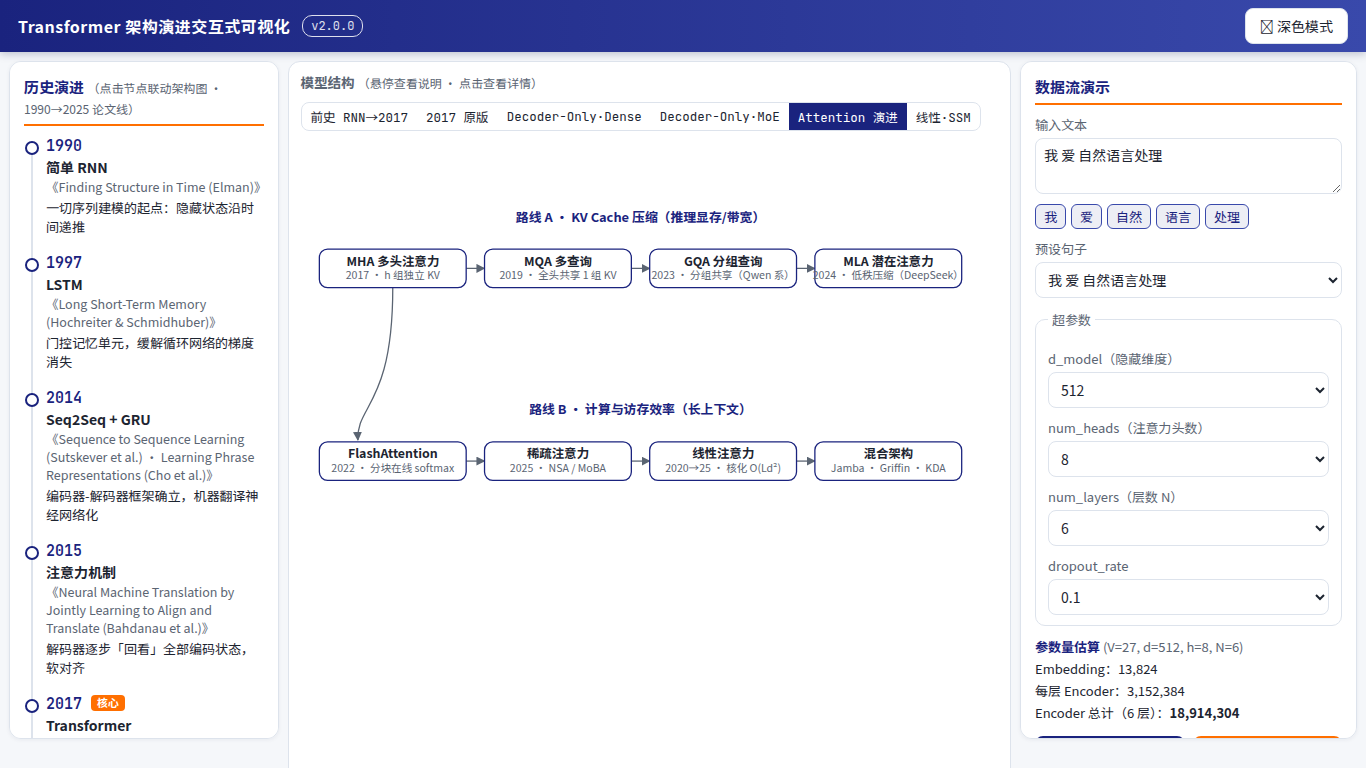
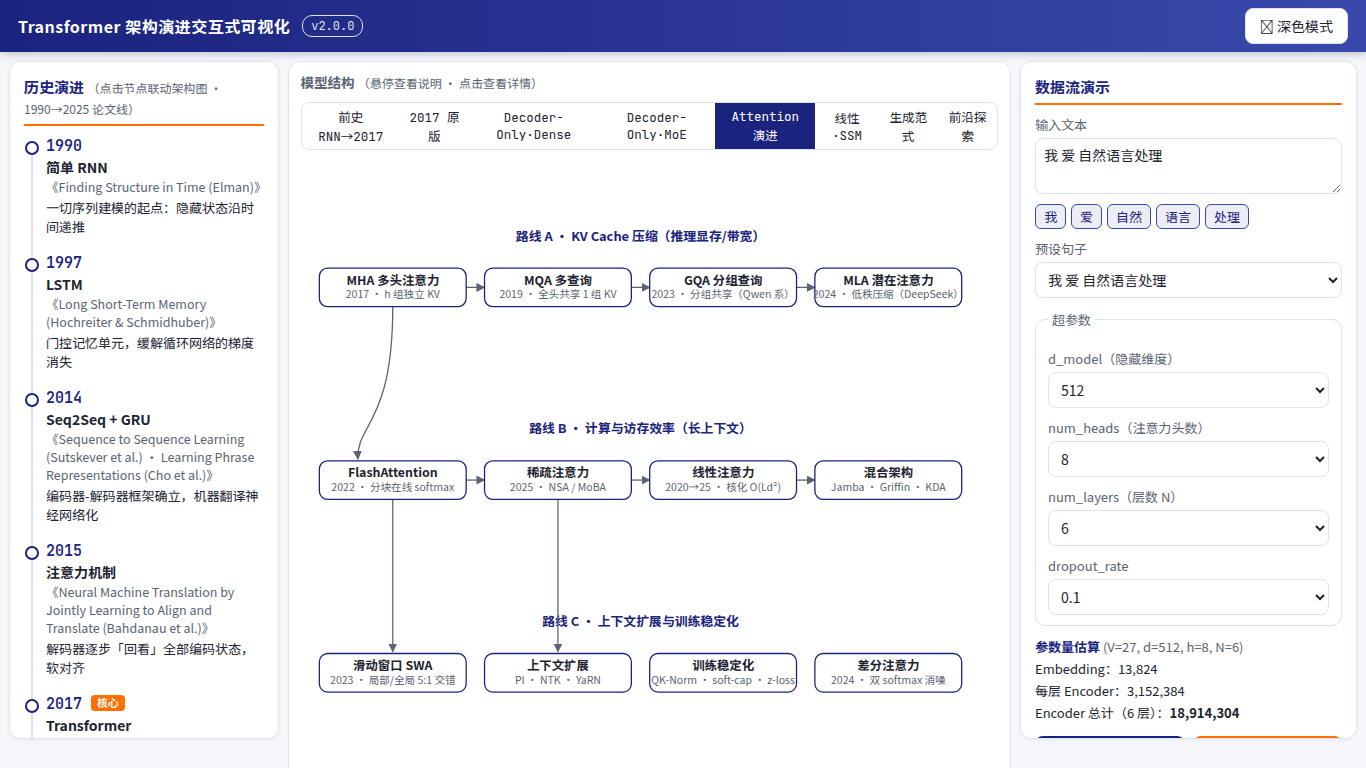
feat(frontier): 生成范式与前沿探索视图（扩散LM/MTP/投机解码/BLT/记忆层/TTT·Titans/潜推理/多模态）+ Attention 路线C + 时间轴 33 节点

diff --git a/index.html b/index.html
@@ -323,8 +323,10 @@ html[data-theme="dark"] .chip{background:rgba(140,158,255,.12);color:var(--c-pri
           <button data-view="orig" class="on" title="2017 原版 Encoder-Decoder">2017 原版</button>
           <button data-view="dense" title="GPT → LLaMA → Qwen-Dense：现代 Decoder-Only Dense">Decoder-Only·Dense</button>
           <button data-view="moe" title="Switch → Mixtral → DeepSeek-V3 → Qwen3 → Kimi K2">Decoder-Only·MoE</button>
-          <button data-view="attn" title="MHA→MQA→GQA→MLA；FlashAttention→NSA/MoBA→线性→混合">Attention 演进</button>
+          <button data-view="attn" title="MHA→MQA→GQA→MLA；Flash→NSA/MoBA→线性→混合；SWA/YaRN/QK-Norm">Attention 演进</button>
           <button data-view="ssm" title="线性注意力与状态空间：Linear Transformer→RWKV/xLSTM→S4→Mamba→Kimi Linear">线性·SSM</button>
+          <button data-view="gen" title="自回归 vs MTP vs 扩散 LM vs 投机解码">生成范式</button>
+          <button data-view="frontier" title="BLT 字节级 / 记忆层 / TTT·Titans / 深度循环 / 多模态">前沿探索</button>
         </span>
         <button id="moe-demo" class="btn" style="display:none;">🎲 Top-2 路由演示</button>
       </div>
@@ -1321,7 +1323,8 @@ const MODULE_DETAILS = {
     code: "// MoBA：块级门控选 Top-K 块\nconst blockScores = qBlock.matMul(kBlocks.T);\nconst topK = tf.topk(blockScores, k);  // 其余块不计算",
     params: '0~少量门控参数',
     refs: ['DeepSeek-AI 2025 · Native Sparse Attention (NSA)',
-           'Moonshot AI 2025 · MoBA: Mixture of Block Attention for Long-Context LLMs']
+           'Moonshot AI 2025 · MoBA: Mixture of Block Attention for Long-Context LLMs',
+           'DeepSeek-AI 2025 · V3.2-Exp（DSA 稀疏注意力，NSA 工程化）']
   },
   'hybrid': {
     title: '混合架构（少数全注意力 + 多数线性层）',
@@ -1436,6 +1439,183 @@ const MODULE_DETAILS = {
     code: "y = g1*E1(x) + g2*E2(x);  // 其余 E-2 个专家跳过",
     params: '0',
     refs: ['Fedus et al. 2022 · A Review of Sparse Expert Models in Deep Learning']
+  },
+
+  /* ============ Attention 路线 C：长上下文与稳定化 ============ */
+  'swa': {
+    title: '滑动窗口注意力（SWA）与局部/全局交错',
+    desc: '每个位置只看最近 w 个 token：L×L → L×w，推理 Cache 恒为窗口大小。Mistral 首创；Gemma 2/3 用「局部层:全局层 ≈ 5:1」交错——局部层管邻近细节、稀疏的全局层管长程检索。首 token 吸引力现象由 attention sinks（StreamingLLM）解释并利用。',
+    latex: [
+      'A_{ij}=\\text{softmax}\\!\\left(\\frac{q_i k_j^{\\top}}{\\sqrt{d}}\\right),\\quad j\\in(i-w,\\,i]',
+      '\\text{Cache}: O(L)\\rightarrow O(w),\\quad \\text{层配比 局部:全局}=5{:}1\\ \\text{(Gemma 3)}'
+    ],
+    shapes: ['注意力矩阵 [L,L] → 带状 [L,w]','KV Cache 恒定 w'],
+    code: "const start = Math.max(0, t - W);\nconst s = q[t].matMul(K.slice([start, t-start+W]), false, true);\n// 仅窗口内 softmax，窗口外不计算",
+    params: '0',
+    refs: ['Jiang et al. 2023 · Mistral 7B', 'Riviere et al. 2024 · Gemma 2',
+           'Google 2025 · Gemma 3 Technical Report',
+           'Xiao et al. 2023 · Efficient Streaming Language Models (Attention Sinks)']
+  },
+  'ctx-ext': {
+    title: '上下文扩展：PI → NTK-aware → YaRN',
+    desc: 'RoPE 模型把 4K 训练长度扩到百万级推理的三代方案：PI 线性插值（位置 ÷s）简单有效但高频信息受损；NTK-aware 高频外推、低频内插；YaRN 按波长分频插值 + 注意力温度补偿，10 倍扩展仅需 ~1000 步微调。CodeLlama-100K、Qwen-1M 的底层技术。',
+    latex: [
+      '\\text{PI}: \\theta_m\\rightarrow\\theta_m/s;\\quad \\text{YaRN}: \\text{按波长 } r(\\theta) \\text{ 分频插值} + \\sqrt{1/t}\\ \\text{温度}'
+    ],
+    shapes: ['有效上下文 ×10~250（4K→1M）','微调成本 ~1000 步'],
+    code: "// YaRN：对第 i 个频率按波长混合插值\nconst r = 2*Math.PI/theta[i];          // 波长\nconst scale = r < base ? 1 : Math.max(0, (r-base)/(L_train-base)) * (1-1/s) + 1/s;",
+    params: '0',
+    refs: ['Chen et al. 2023 · Extending Context Window via Position Interpolation',
+           'bloc97 2023 · NTK-Aware Scaled RoPE', 'Peng et al. 2024 · YaRN']
+  },
+  'qknorm': {
+    title: '训练稳定化三件套：QK-Norm · soft-capping · z-loss',
+    desc: '规模越大越容易训崩的主流对策：QK-Norm 对 Q/K 按头做 RMSNorm，防注意力 logits 爆炸（Gemma 3、Chameleon）；logit soft-capping 用 tanh 限幅防输出过自信（Gemma 2）；z-loss 惩罚 softmax 分母漂移（ST-MoE/PaLM）。与 Pre-Norm/RMSNorm 同属「稳定化演进线」。',
+    latex: [
+      '\\hat{q}=\\text{RMSNorm}(q)\\cdot\\sqrt{d_h};\\quad \\hat{\\ell}=c\\cdot\\tanh(\\ell/c)\\ \\text{(soft-cap)}',
+      '\\mathcal{L}_z=\\frac{1}{B}\\sum_b\\big(\\log Z_b\\big)^2\\ \\text{(z-loss)}'
+    ],
+    shapes: ['注意力 logits 方差受控','训练 loss 曲线平滑'],
+    code: "const qn = rmsNorm(Q).mul(Math.sqrt(dh));\nconst kn = rmsNorm(K).mul(Math.sqrt(dh));\nconst logits = softCap(qn.matMul(kn.T), 30); // c=30 tanh 限幅",
+    params: 'QK-Norm：4·dₕ/头',
+    refs: ['Riviere et al. 2024 · Gemma 2', 'Google 2025 · Gemma 3',
+           'Chameleon Team 2024 · Chameleon Mixed-Modal Early-Fusion',
+           'Zoph et al. 2022 · ST-MoE (z-loss)']
+  },
+  'diff': {
+    title: '差分注意力（DIFF Transformer, 2024）',
+    desc: '仿差分放大器：两组独立 softmax 注意力相减，共模噪声（无关 token 的均匀注意力）被抵消——抗幻觉、长上下文鲁棒、还能省一半头数（每组 h/2 头）。65B 规模验证优于同尺寸 Transformer。',
+    latex: [
+      '\\text{DiffAttn}(Q)=\\big(\\text{softmax}(Q_1K_1^{\\top})V_1-\\lambda\\,\\text{softmax}(Q_2K_2^{\\top})V_2\\big),\\ \\lambda\\in(0,1)'
+    ],
+    shapes: ['每组 h/2 头 ×2 组','输出同 MHA 形状'],
+    code: "const A1 = softmax(Q1.matMul(K1.T)); const A2 = softmax(Q2.matMul(K2.T));\nreturn A1.sub(A2.mul(lambda)).matMul(V);",
+    params: '~同 MHA（两组半宽投影）',
+    refs: ['Ye et al. 2024 · Differential Transformer']
+  },
+
+  /* ============ 生成范式 ============ */
+  'autoreg': {
+    title: '自回归下一词预测（NTP）',
+    desc: 'LLM 的第一性原理：因果掩码 + 交叉熵，逐 token 左到右。GPT 系（GPT/Qwen/LLaMA/Kimi/DeepSeek）全部采用；KV Cache 让每步生成 O(L)。理解「为什么自回归赢」= 理解简单目标 + 规模的涌现。',
+    latex: [
+      'P(y)=\\prod_t P(y_t\\mid y_{<t}),\\quad \\mathcal{L}=-\\sum_t\\log P(y_t\\mid y_{<t})'
+    ],
+    shapes: ['logits [B,L,|V|]','每步生成 O(L)（有 Cache）'],
+    code: "const logits = model(yPrev);\nconst loss = tf.losses.softmaxCrossEntropy(oneHot(yNext), logits);",
+    params: '0（目标函数，非参数）',
+    refs: ['Radford et al. 2018/2019 · GPT-1/2', 'Brown et al. 2020 · GPT-3']
+  },
+  'mtp': {
+    title: 'MTP 多 token 预测（DeepSeek-V3）',
+    desc: '在下一词之外再挂 D 个轻量头，一次预测未来 1..D 个 token：训练信号更密集、迫使模型「规划」未来；V3 实测多基准 +1.5~3%。推理时这些头可直接充当投机解码的草稿（EAGLE 思路），一鱼两吃。',
+    latex: [
+      'p_t^{(k)}=\\text{head}_k(h_t),\\quad \\mathcal{L}=\\sum_{k=1}^{D}\\mathbb{E}\\big[-\\log p_{t+k}^{(k)}\\big]'
+    ],
+    shapes: ['共享主干 + D 个投影头','每头 [B,L,|V|]'],
+    code: "for (let k = 1; k <= D; k++)\n  loss += ce(heads[k](h.slice([0, 0], [-1, L-k])), y.slice([0, k]));",
+    params: 'D·d·|V|（辅助头）',
+    refs: ['DeepSeek-AI 2024 · DeepSeek-V3 Technical Report (MTP)',
+           'Gloeckle et al. 2024 · Better & Faster Large Language Models via Multi-token Prediction',
+           'Li et al. 2024 · EAGLE-2']
+  },
+  'diffusion': {
+    title: '扩散语言模型（LLaDA · Mercury · Gemini Diffusion）',
+    desc: '生成 = 从全 [MASK] 出发迭代去噪：每轮并行预测所有位置的一个子集，打破左到右依赖，天然可并行、可回改、可控编辑。LLaDA 8B 首次验证扩散 LM 的规模法则（可比肩 LLaMA3-8B）；Mercury/Gemini Diffusion 主打 5-10× 生成速度。当前短板：变长序列、KV Cache 失效、顶级质量仍属自回归。',
+    latex: [
+      'x_T=\\text{[MASK]}^L\\ \\xrightarrow{\\ p_\\theta(y_t\\mid x_t)\\ }\\ x_0=y\\quad\\text{(逐位置并行去噪)}'
+    ],
+    shapes: ['每步并行预测全部位置','生成速度 5-10× AR'],
+    code: "let x = maskAll(L);\nfor (let step = T; step > 0; step--)\n  x = denoise(x, model, step);   // 每步揭示一部分 token",
+    params: '~同规模 AR 模型',
+    refs: ['Nie et al. 2025 · LLaDA: Large Language Diffusion Models',
+           'Inception Labs 2025 · Mercury Diffusion LLM',
+           'Google DeepMind 2025 · Gemini Diffusion']
+  },
+  'spec': {
+    title: '投机解码（Speculative Decoding · EAGLE）',
+    desc: '推理加速而非新模型：小草稿模型一次猜 k 个 token，大模型一次前向并行验证，拒绝采样保证输出分布与逐 token 生成完全一致——数学无损的 2-4× 提速。EAGLE 系用目标模型特征层 + MTP 式头做草稿，是当前工业默认。',
+    latex: [
+      '\\text{接受率 }\\alpha=\\mathbb{E}\\big[\\min(1,p/q)\\big],\\quad \\text{期望加速}\\approx\\frac{1-\\alpha^{k+1}}{(1-\\alpha)}\\ \\text{倍}'
+    ],
+    shapes: ['草稿 k token → 1 次并行验证','每步产出 ≥1 token'],
+    code: "const draft = smallModel.kTokens(prefix, k);   // 猜 k 个\nconst p = targetModel.probs(prefix.concat(draft));\nconst out = rejectSample(draft, p);            // 无损验证",
+    params: '草稿模型 ~1/10 参数',
+    refs: ['Leviathan et al. 2023 · Fast Inference from Transformers via Speculative Decoding',
+           'Chen et al. 2023 · Accelerating LLM Decoding with Speculative Sampling',
+           'Li et al. 2024 · EAGLE-2']
+  },
+
+  /* ============ 前沿探索 ============ */
+  'blt': {
+    title: 'Byte Latent Transformer（BLT, Meta 2024）',
+    desc: '去掉 BPE 分词器：字节流按「下一个字节的熵」动态聚成 patch——越可预测处 patch 越大，计算量随信息熵分配。等训练算力下鲁棒性优于 Llama 3（抗噪、无 OOV、跨语言公平），代价是长 patch 依赖局部字节小模型。与 MTP/SWA 同属「改输入分配」的效率线。',
+    latex: [
+      '\\text{patch 边界} \\approx \\text{熵率突增处},\\quad \\text{计算} \\propto \\text{信息熵}'
+    ],
+    shapes: ['字节 [B] → 动态 patch [P] → 全局隐状态','P 随内容变化'],
+    code: "const patches = entropyPatcher(bytes, smallModel); // 动态边界\nconst h = globalModel(patches);\nconst bytesOut = localDecoder(h, bytes);",
+    params: 'patcher(小) + 全局模型 + 局部解码器',
+    refs: ['Pagnoni et al. 2024 · Byte Latent Transformer: Patches Scale Better Than Tokens']
+  },
+  'memlayer': {
+    title: '记忆层（Memory Layers at Scale, Meta 2024）',
+    desc: '用可训练的稀疏键值记忆（百万级 embedding，product-key 检索 top-k）替换部分 FFN：事实性问答大幅提升而算力开销很小——「知识存记忆、推理靠注意力」的分工假说的工程验证。128M 记忆在 1.3B 模型上 trivia 性能 +100%+。',
+    latex: [
+      'y=\\textstyle\\sum_{i\\in\\text{topk}(qK)} v_i\\quad\\text{(product-key 量化检索)}'
+    ],
+    shapes: ['查询 [d] → top-k 记忆槽','稀疏激活 ~k/百万'],
+    code: "const keys1 = q.matMul(PK1); keys2 = q.matMul(PK2);\nconst topk = topkProduct(keys1, keys2, k);   // 分解检索\nconst y = V.gather(topk).mean(0);",
+    params: '记忆表 1M~1B×d（稀疏访问）',
+    refs: ['Berges et al. 2024 · Memory Layers at Scale (Meta)']
+  },
+  'ttt': {
+    title: 'TTT 层：测试时训练（2024）',
+    desc: '把 RNN 的「隐藏状态」替换为一个可在线学习的神经网络：每个 token 到来时对隐模型做一步梯度下降，输出 = 更新后模型的前向。序列建模即测试时训练——状态容量从固定向量升级为整个网络。',
+    latex: [
+      'W_t=W_{t-1}-\\eta\\,\\nabla\\,\\ell\\big(W_{t-1};x_t\\big),\\quad y_t=f\\big(W_t;x_t\\big)'
+    ],
+    shapes: ['状态 = 权重 W [参数量级]','每 token 一步 SGD'],
+    code: "for (const x_t of xs) {\n  const g = grad(w => reconLoss(w, x_t));   // 自监督\n  W = W.sub(g.mul(eta));                    // 状态更新\n  y_t = f(W, x_t);\n}",
+    params: '隐模型 ~MLP 级',
+    refs: ['Sun et al. 2024 · Learning to (Learn at Test Time): RNNs with Expressive Hidden States']
+  },
+  'titans': {
+    title: 'Titans：测试时神经记忆（Google 2025）',
+    desc: '「惊讶度」驱动记忆：与当前记忆预测不符的信息才写入长期神经记忆模块（MLP 级、可扩展到千万级上下文），配合短期注意力与持久记忆三部分。是 TTT/Memorizing Transformer 一线的工程化代表：记忆在测试时继续学习。',
+    latex: [
+      'M_t=M_{t-1}-\\theta_t\\,\\nabla\\,\\ell\\big(M_{t-1};x_t\\big)\\quad\\text{(surprise = 梯度大小)}'
+    ],
+    shapes: ['长期记忆 [d,d] 级','上下文 2M→10M+'],
+    code: "const surprise = grad(M => reconLoss(M, x_t));\nM = M.mul(forgetGate).sub(surprise.mul(theta));\ny = attn(x_short) + M.query(q_t);",
+    params: '记忆模块 ~MLP',
+    refs: ['Behrouz et al. 2025 · Titans: Learning to Memorize at Test Time',
+           'Wu et al. 2022 · Memorizing Transformers']
+  },
+  'looped': {
+    title: '深度循环 / 潜空间推理（Universal Transformer → 2025）',
+    desc: '同一组层反复迭代、深度按问题难度自适应：简单问题少循环、难题多「想」几轮——把测试时计算从输出 token 转移到潜空间递归。2018 年的 Universal Transformer 在 2025 以 latent reasoning 模型（如 Huginnet）回潮，与 o1 式长思维链互补。',
+    latex: [
+      'h^{(k+1)}=\\text{Block}\\big(h^{(k)}\\big),\\quad K\\ \\text{按难度自适应（AdaTape/ACT）}'
+    ],
+    shapes: ['参数量不变','有效深度 K×N'],
+    code: "let h = embed(x);\nfor (let k = 0; k < adaptiveSteps(difficulty); k++)\n  h = block(h);   // 权重共享的递归深度",
+    params: 'N 层参数（共享复用 K 次）',
+    refs: ['Dehghani et al. 2018 · Universal Transformers',
+           'Geiping et al. 2025 · Reasoning by Latent Space (Huginnet)']
+  },
+  'multimodal': {
+    title: '多模态融合三路线',
+    desc: '①适配器：ViT/Whisper 编码器输出经 projector 接入 LLM（LLaVA、Qwen-VL）——最主流；②早期融合：图文 token 混合统一训练（Chameleon）；③原生全模态：端到端流式输入输出（GPT-4o 系）。共同思想：把一切模态变成 token 序列，交给同一个 Transformer。',
+    latex: [
+      'h=\\text{LLM}\\big(\\big[\\text{Proj}(v_1..v_m);\\;t_1..t_n\\big]\\big)'
+    ],
+    shapes: ['图像 → ViT patch tokens → 投影到 d_model','与文本 token 拼接'],
+    code: "const vis = proj(vitEncoder(image));       // [m, d]\nconst h = llm(tf.concat([vis, textTokens], 1));",
+    params: 'ViT + projector（~LLM 的 5-15%）',
+    refs: ['Liu et al. 2023 · Visual Instruction Tuning (LLaVA)',
+           'Chameleon Team 2024 · Mixed-Modal Early-Fusion Foundation Models',
+           'Bai et al. 2023 · Qwen-VL']
   }
 };
 
@@ -1690,12 +1870,13 @@ const ARCH_VIEW_MOE = {
   ]
 };
 
-/* ---- 视图：Attention 演进（KV 压缩线 + 计算效率线） ---- */
+/* ---- 视图：Attention 演进（KV 压缩 + 计算效率 + 长上下文/稳定化） ---- */
 const ARCH_VIEW_ATTN = {
   nodeW: 160,
   colTitles: [
     { x:370, y:90,  text:'路线 A · KV Cache 压缩（推理显存/带宽）' },
-    { x:370, y:300, text:'路线 B · 计算与访存效率（长上下文）' }
+    { x:370, y:300, text:'路线 B · 计算与访存效率（长上下文）' },
+    { x:370, y:510, text:'路线 C · 上下文扩展与训练稳定化' }
   ],
   nodes: [
     { id:'mha-ev', x:20, y:120, label:'MHA 多头注意力', sub:'2017 · h 组独立 KV', detail:'mha-ev',
@@ -1713,7 +1894,15 @@ const ARCH_VIEW_ATTN = {
     { id:'linear', x:380, y:330, label:'线性注意力', sub:'2020→25 · 核化 O(Ld²)', detail:'linear',
       tip:'φ(Q)(φ(K)ᵀV)：与序列长度线性，见「线性·SSM」视图' },
     { id:'hybrid', x:560, y:330, label:'混合架构', sub:'Jamba · Griffin · KDA', detail:'hybrid',
-      tip:'少数全注意力层 + 多数线性层按比例混搭（Kimi Linear 等）' }
+      tip:'少数全注意力层 + 多数线性层按比例混搭（Kimi Linear 等）' },
+    { id:'swa', x:20, y:540, label:'滑动窗口 SWA', sub:'2023 · 局部/全局 5:1 交错', detail:'swa',
+      tip:'Mistral/Gemma：每层只看窗口 w，全局层稀疏布点' },
+    { id:'ctxext', x:200, y:540, label:'上下文扩展', sub:'PI · NTK · YaRN', detail:'ctx-ext',
+      tip:'RoPE 训练长度→百万级推理：按频率插值外推' },
+    { id:'qknorm', x:380, y:540, label:'训练稳定化', sub:'QK-Norm · soft-cap · z-loss', detail:'qknorm',
+      tip:'大模型训练三大稳定器（Gemma 2/3、Chameleon）' },
+    { id:'diff', x:560, y:540, label:'差分注意力', sub:'2024 · 双 softmax 消噪', detail:'diff',
+      tip:'DIFF Transformer：差分放大器思路，抗幻觉' }
   ],
   frames: [],
   edges: [],
@@ -1724,7 +1913,9 @@ const ARCH_VIEW_ATTN = {
     { d:'M 100 162 C 100 290, 60 290, 62 328' },   /* mha-ev ↓ flash */
     { d:'M 180 351 L 200 351' },                   /* flash → sparse */
     { d:'M 360 351 L 380 351' },                   /* sparse → linear */
-    { d:'M 540 351 L 560 351' }                    /* linear → hybrid */
+    { d:'M 540 351 L 560 351' },                   /* linear → hybrid */
+    { d:'M 100 372 L 100 538' },                   /* flash ↓ swa */
+    { d:'M 280 372 L 280 538' }                    /* sparse ↓ ctxext */
   ],
   residuals: []
 };
@@ -1760,6 +1951,63 @@ const ARCH_VIEW_SSM = {
   residuals: []
 };
 
+/* ---- 视图：生成范式（自回归 vs MTP vs 扩散 vs 投机解码） ---- */
+const ARCH_VIEW_GEN = {
+  colTitles: [
+    { x:380, y:26, text:'生成范式：自回归及其挑战者' }
+  ],
+  nodes: [
+    { id:'autoreg', x:282, y:48, label:'自回归 NTP（主流）', sub:'GPT 系 · 逐 token 左到右', detail:'autoreg',
+      tip:'P(y)=∏P(yₜ|y<ₜ)：所有主流 LLM 的训练与生成范式' },
+    { id:'mtp', x:60, y:210, label:'MTP 多 token 预测', sub:'DeepSeek-V3 · 一次预测多步', detail:'mtp',
+      tip:'辅助头密集训练信号；推理时可当投机草稿' },
+    { id:'spec', x:504, y:210, label:'投机解码', sub:'草稿模型 + 并行验证（EAGLE）', detail:'spec',
+      tip:'数学无损的 2-4× 解码加速' },
+    { id:'diffusion', x:282, y:380, label:'扩散语言模型', sub:'LLaDA · Mercury 并行去噪', detail:'diffusion',
+      tip:'从全掩码迭代去噪：打破左到右依赖' }
+  ],
+  frames: [],
+  edges: [],
+  special: [
+    { d:'M 300 90 C 220 130, 180 170, 158 208' },              /* autoreg → mtp */
+    { d:'M 460 90 C 540 130, 580 170, 588 208' },              /* autoreg → spec */
+    { d:'M 256 231 L 504 231', label:'草稿 / 验证', lx:380, ly:224 },
+    { d:'M 380 90 L 380 378',  label:'范式挑战 · 并行去噪', lx:462, ly:300 }
+  ],
+  residuals: []
+};
+
+/* ---- 视图：前沿探索（去分词器 / 记忆 / 测试时计算 / 模态） ---- */
+const ARCH_VIEW_FRONTIER = {
+  colTitles: [
+    { x:178, y:60, text:'去分词器与记忆层' },
+    { x:556, y:60, text:'测试时计算与深度' },
+    { x:380, y:420, text:'模态扩展：一切皆 Token' }
+  ],
+  nodes: [
+    { id:'blt', x:80, y:100, label:'BLT 字节级 LM', sub:'2024 · 熵驱动动态 patch', detail:'blt',
+      tip:'Meta：去 BPE，计算量随信息熵分配' },
+    { id:'memlayer', x:80, y:210, label:'记忆层 Memory', sub:'2024 · 稀疏键值替代 FFN', detail:'memlayer',
+      tip:'知识存记忆、推理靠注意力；事实性大幅提升' },
+    { id:'looped', x:458, y:100, label:'深度循环 / 潜推理', sub:'2018→25 · 递归深度自适应', detail:'looped',
+      tip:'Universal Transformer 回潮：难题多转几圈' },
+    { id:'ttt', x:458, y:210, label:'TTT 层', sub:'2024 · 隐藏状态=在线学习器', detail:'ttt',
+      tip:'序列建模即测试时训练' },
+    { id:'titans', x:269, y:330, label:'Titans 神经记忆', sub:'2025 · 惊讶度驱动 · 千万级上下文', detail:'titans',
+      tip:'Google：长期记忆与短期注意力分工' },
+    { id:'multimodal', x:269, y:440, label:'多模态融合', sub:'LLaVA · Chameleon · 原生 Omni', detail:'multimodal',
+      tip:'视觉/音频统一成 token 进 Transformer' }
+  ],
+  frames: [],
+  edges: [
+    ['ttt','titans']
+  ],
+  special: [
+    { d:'M 178 252 C 178 300, 300 300, 340 328' }   /* memlayer → titans */
+  ],
+  residuals: []
+};
+
 /** 视图注册表：id → 布局（orig 复用模块8 的常量） */
 const ARCH_VIEWS = {
   pre:   ARCH_VIEW_PRE,
@@ -1769,7 +2017,9 @@ const ARCH_VIEWS = {
   dense: ARCH_VIEW_DENSE,
   moe:   ARCH_VIEW_MOE,
   attn:  ARCH_VIEW_ATTN,
-  ssm:   ARCH_VIEW_SSM
+  ssm:   ARCH_VIEW_SSM,
+  gen:   ARCH_VIEW_GEN,
+  frontier: ARCH_VIEW_FRONTIER
 };
 
 const ArchitectureRenderer = {
@@ -1857,7 +2107,15 @@ const ArchitectureRenderer = {
        .attr('x1', na.x + nw/2).attr('y1', na.y + ARCH_LAYOUT.nodeH)
        .attr('x2', nb.x + nw/2).attr('y2', nb.y - 2);
     });
-    (v.special || []).forEach(e => g.append('path').attr('class','edge').attr('d', e.d));
+    (v.special || []).forEach(e => {
+      g.append('path').attr('class','edge').attr('d', e.d);
+      if(e.label){
+        g.append('text').attr('x',e.lx).attr('y',e.ly)
+         .attr('text-anchor','middle').attr('font-size',11.5)
+         .attr('fill','var(--c-text-dim)')
+         .style('font-family','var(--font-mono)').text(e.label);
+      }
+    });
     (v.residuals || []).forEach(d =>
       g.append('path').attr('class','edge residual').attr('d', d));
   },
@@ -2023,6 +2281,41 @@ const HISTORY = [
     contrib:'开源 Top-2 稀疏 MoE：47B 总参 / 13B 激活',
     highlights:['router','exp1','exp2','exp3','exp4','wsum'],
     note:'MoE 走向主流开源：同等推理成本下质量直逼更大 Dense 模型——此后新旗舰多为 MoE。' },
+  { year:2023, view:'attn', name:'Mistral 7B（SWA）',
+    paper:'Mistral 7B (Jiang et al.)',
+    contrib:'滑动窗口注意力：长文本推理 Cache O(L)→O(w)',
+    highlights:['swa','flash'],
+    note:'GQA+SWA 组合让 7B 小模型也能跑长文；StreamingLLM 的 attention sinks 解释了首 token 的「注意力黑洞」现象。' },
+  { year:2024, view:'frontier', name:'TTT 层 / 记忆层',
+    paper:'Learning to (Learn at Test Time) (Sun et al.) · Memory Layers at Scale (Meta)',
+    contrib:'隐藏状态=在线学习器；稀疏键值记忆替换 FFN',
+    highlights:['ttt','memlayer'],
+    note:'两条「记忆」路线同时起步：TTT 把状态变成可学习的网络，Memory Layers 把事实知识外置成可检索参数。' },
+  { year:2024, view:'frontier', name:'BLT 字节级 LM',
+    paper:'Byte Latent Transformer: Patches Scale Better Than Tokens (Meta)',
+    contrib:'熵驱动动态 patch，去 BPE 分词器',
+    highlights:['blt'],
+    note:'计算量随信息熵分配：越难预测的字节花越多算力；等算力下鲁棒性超过 Llama 3——「分词器是否必要」的正面挑战。' },
+  { year:2024, view:'gen', name:'MTP 多 token 预测',
+    paper:'DeepSeek-V3 Technical Report (DeepSeek-AI)',
+    contrib:'辅助头一次预测多步：训练信号更密 + 投机草稿',
+    highlights:['autoreg','mtp'],
+    note:'多基准 +1.5~3%；推理时 MTP 头直接当 EAGLE 式草稿模型——训练目标与推理加速一鱼两吃。' },
+  { year:2025, view:'gen', name:'扩散语言模型',
+    paper:'LLaDA: Large Language Diffusion Models · Mercury / Gemini Diffusion (Inception Labs)',
+    contrib:'并行去噪生成，正面挑战自回归范式',
+    highlights:['diffusion','autoreg','spec'],
+    note:'LLaDA 8B 首次验证扩散 LM 规模法则；Mercury 主打 5-10× 生成速度——2017 年以来生成范式的第一次真正分叉。' },
+  { year:2025, view:'attn', name:'Gemma 3（稳定化）',
+    paper:'Gemma 3 Technical Report (Google)',
+    contrib:'QK-Norm + 门控注意力 + 5:1 局部/全局 + 多模态',
+    highlights:['qknorm','swa'],
+    note:'训练稳定化三件套（QK-Norm/soft-cap/z-loss）成为百B级训练的隐形基石——不改变数学，只保证「训得动」。' },
+  { year:2025, view:'frontier', name:'Titans / 潜空间推理',
+    paper:'Titans: Learning to Memorize at Test Time (Google) · Reasoning by Latent Space (Huginnet)',
+    contrib:'测试时神经记忆；深度循环潜推理',
+    highlights:['titans','looped','ttt'],
+    note:'「思考」从输出 token 转移到架构内部：记忆在测试时继续学习、深度按难度自适应——与 o1 式长思维链互补的两条路。' },
   { year:2024, view:'attn', name:'DeepSeek-V2/V3（MLA）',
     paper:'DeepSeek-V2 / DeepSeek-V3 Technical Report (DeepSeek-AI)',
     contrib:'MLA 潜在压缩 KV Cache 数十倍 + MoE 671B/37B 激活',
